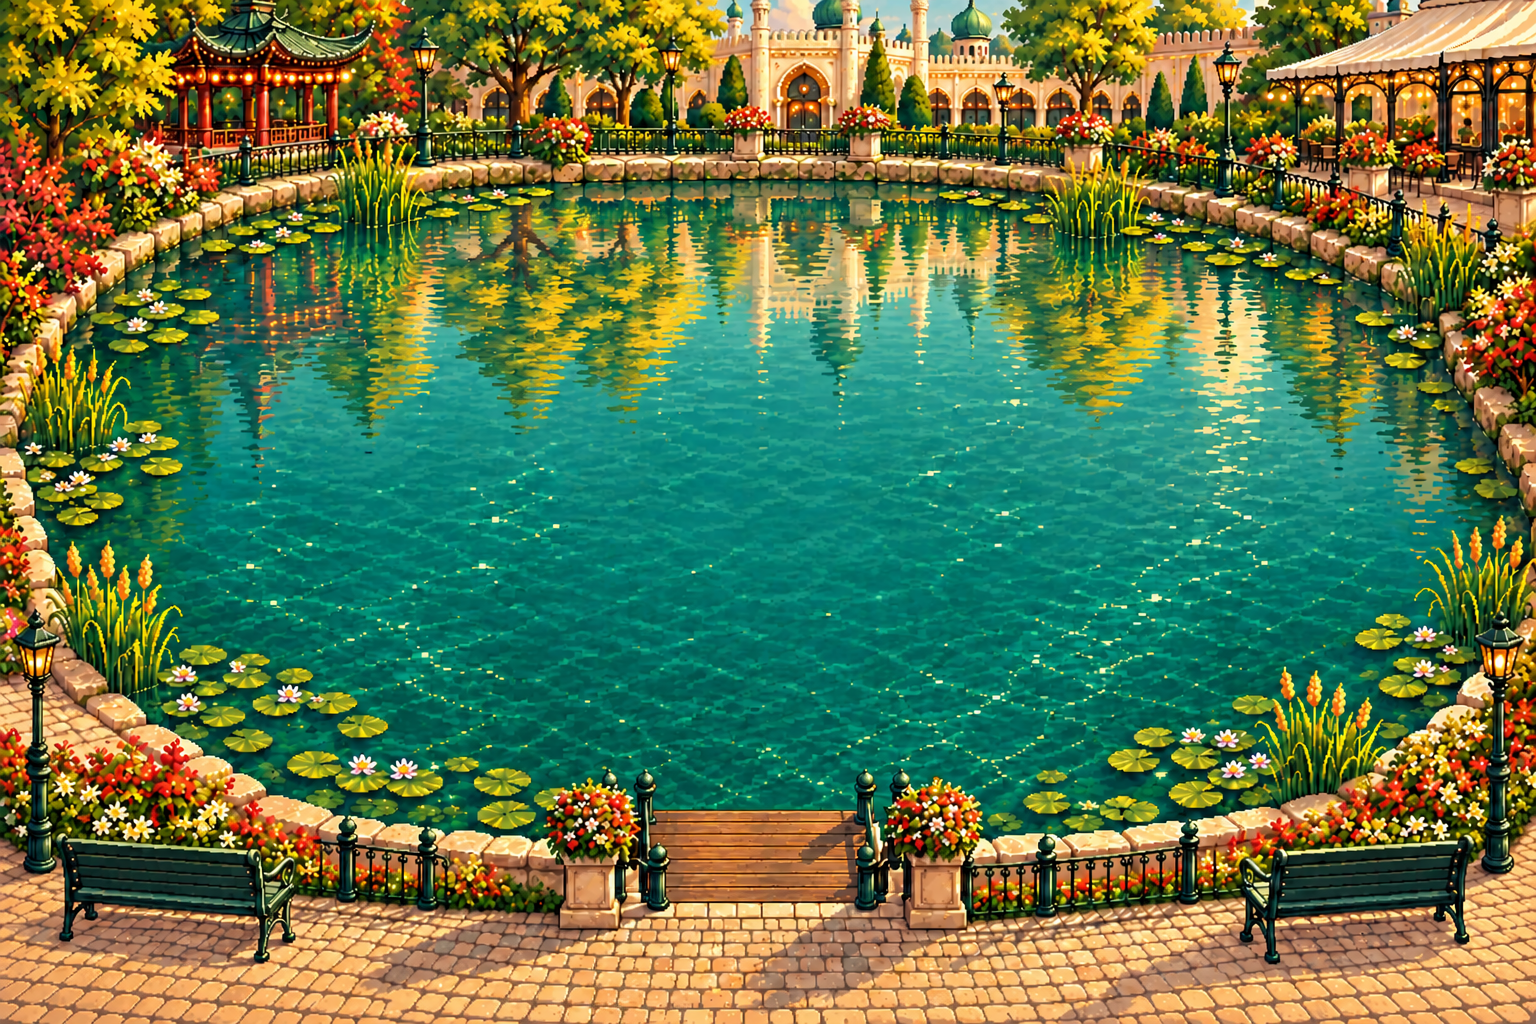
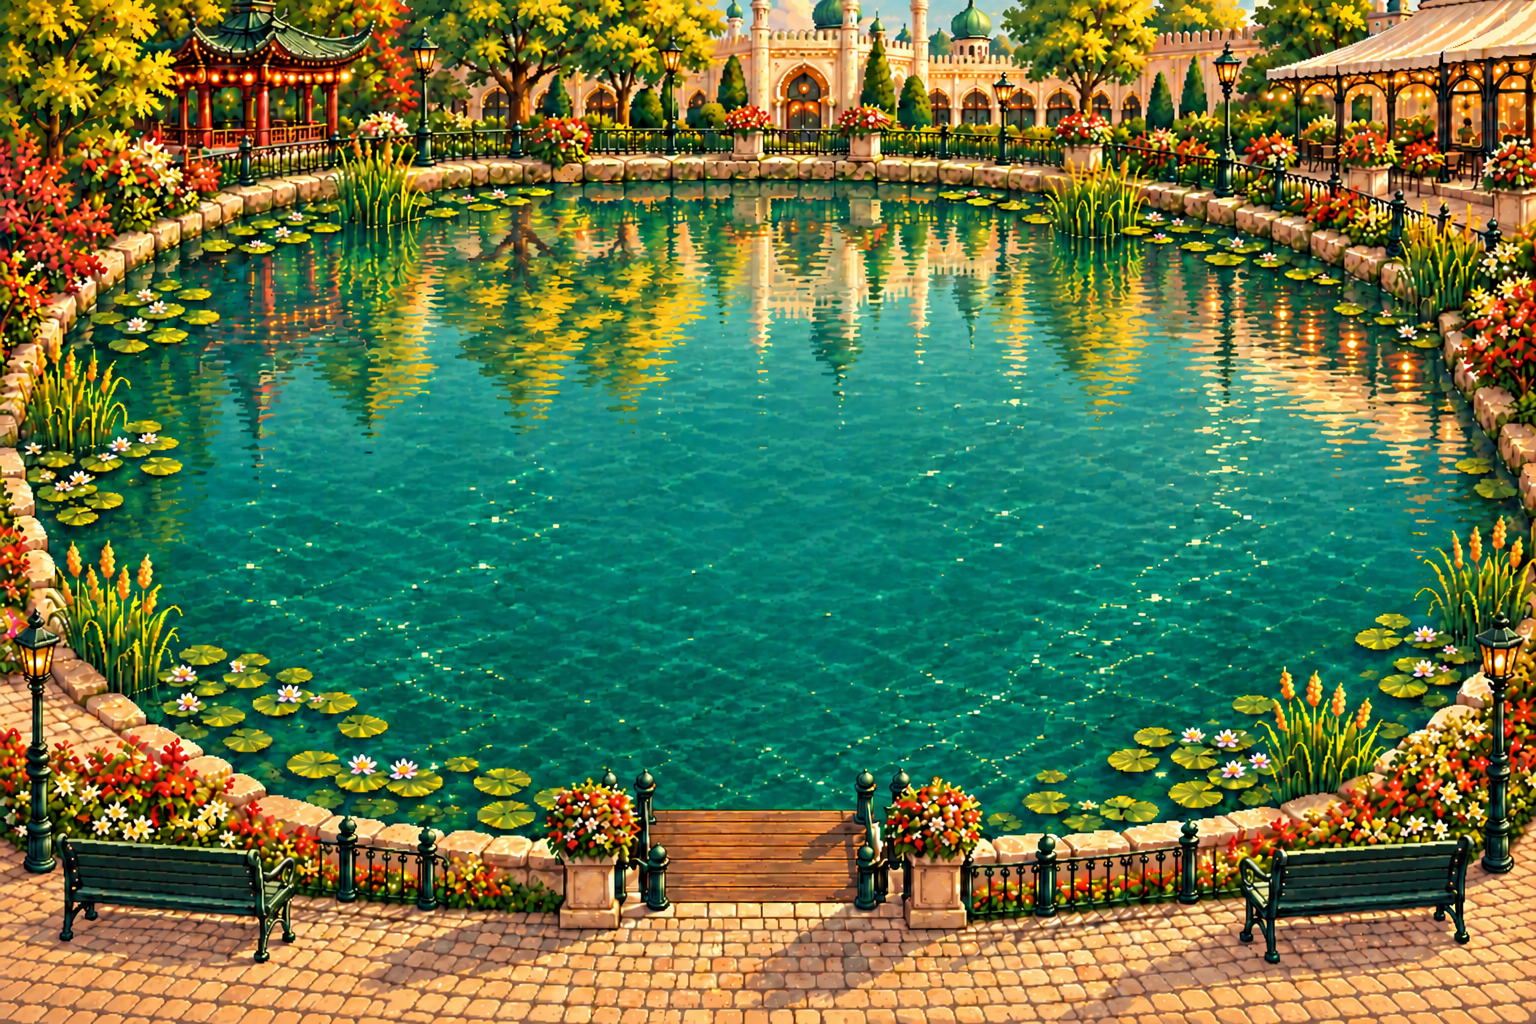
Match restaurant reflections to its awning and lights

diff --git a/docs/art-review.md b/docs/art-review.md
@@ -129,6 +129,8 @@ Validation passed: all 61 unit tests, the TypeScript/production build, the art a
 
 The follow-up visibility review found that the original one-pixel glints blended into the painted water. The effect now uses 128 wider, two-pixel crests with paired light and shade, slightly quicker drift, and a shorter fade cycle. The shared wind and visit recording still drive the effect. Desktop and phone captures were reviewed; the browser check now measures contrast after viewport scaling and clipping. All 61 unit tests, the production build, and the wind and mobile browser scenarios passed.
 
+The restaurant-side reflection review removed the extra leafy silhouettes beneath the terrace. That water now reflects the cream awning, dark posts, and amber lights in broken horizontal ripples. The real tree immediately left of the restaurant retains its reflection. The 1536 × 1024 pond image was checked in all six art regions and the assembled desktop and phone views; the production asset matches the source image. The art audit, production build, and browser checks for both interface modes and wind shimmer passed.
+
 ## Reproduce the review
 
 ```bash
